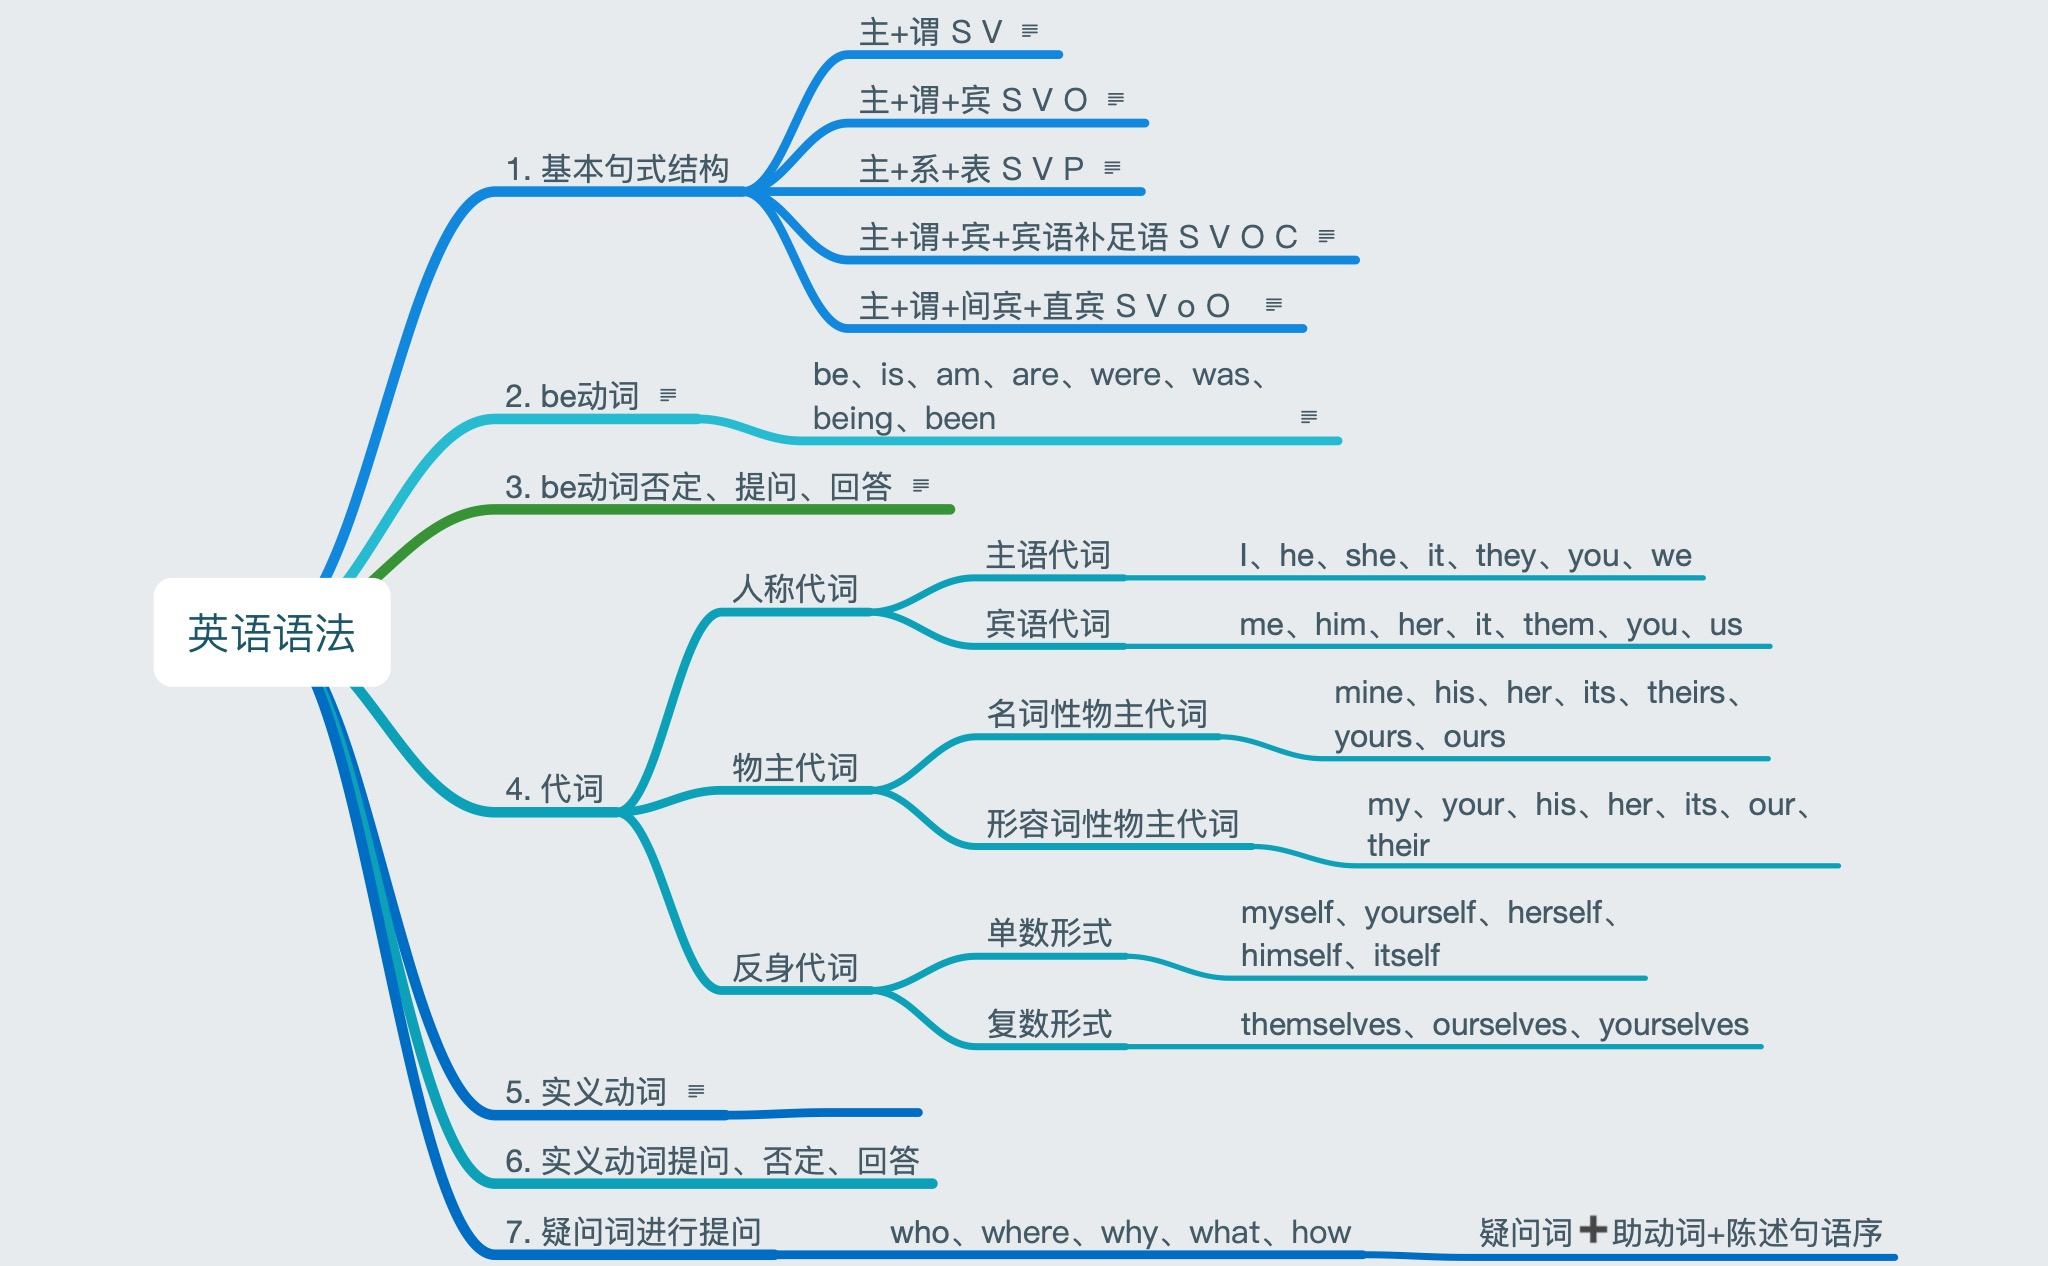
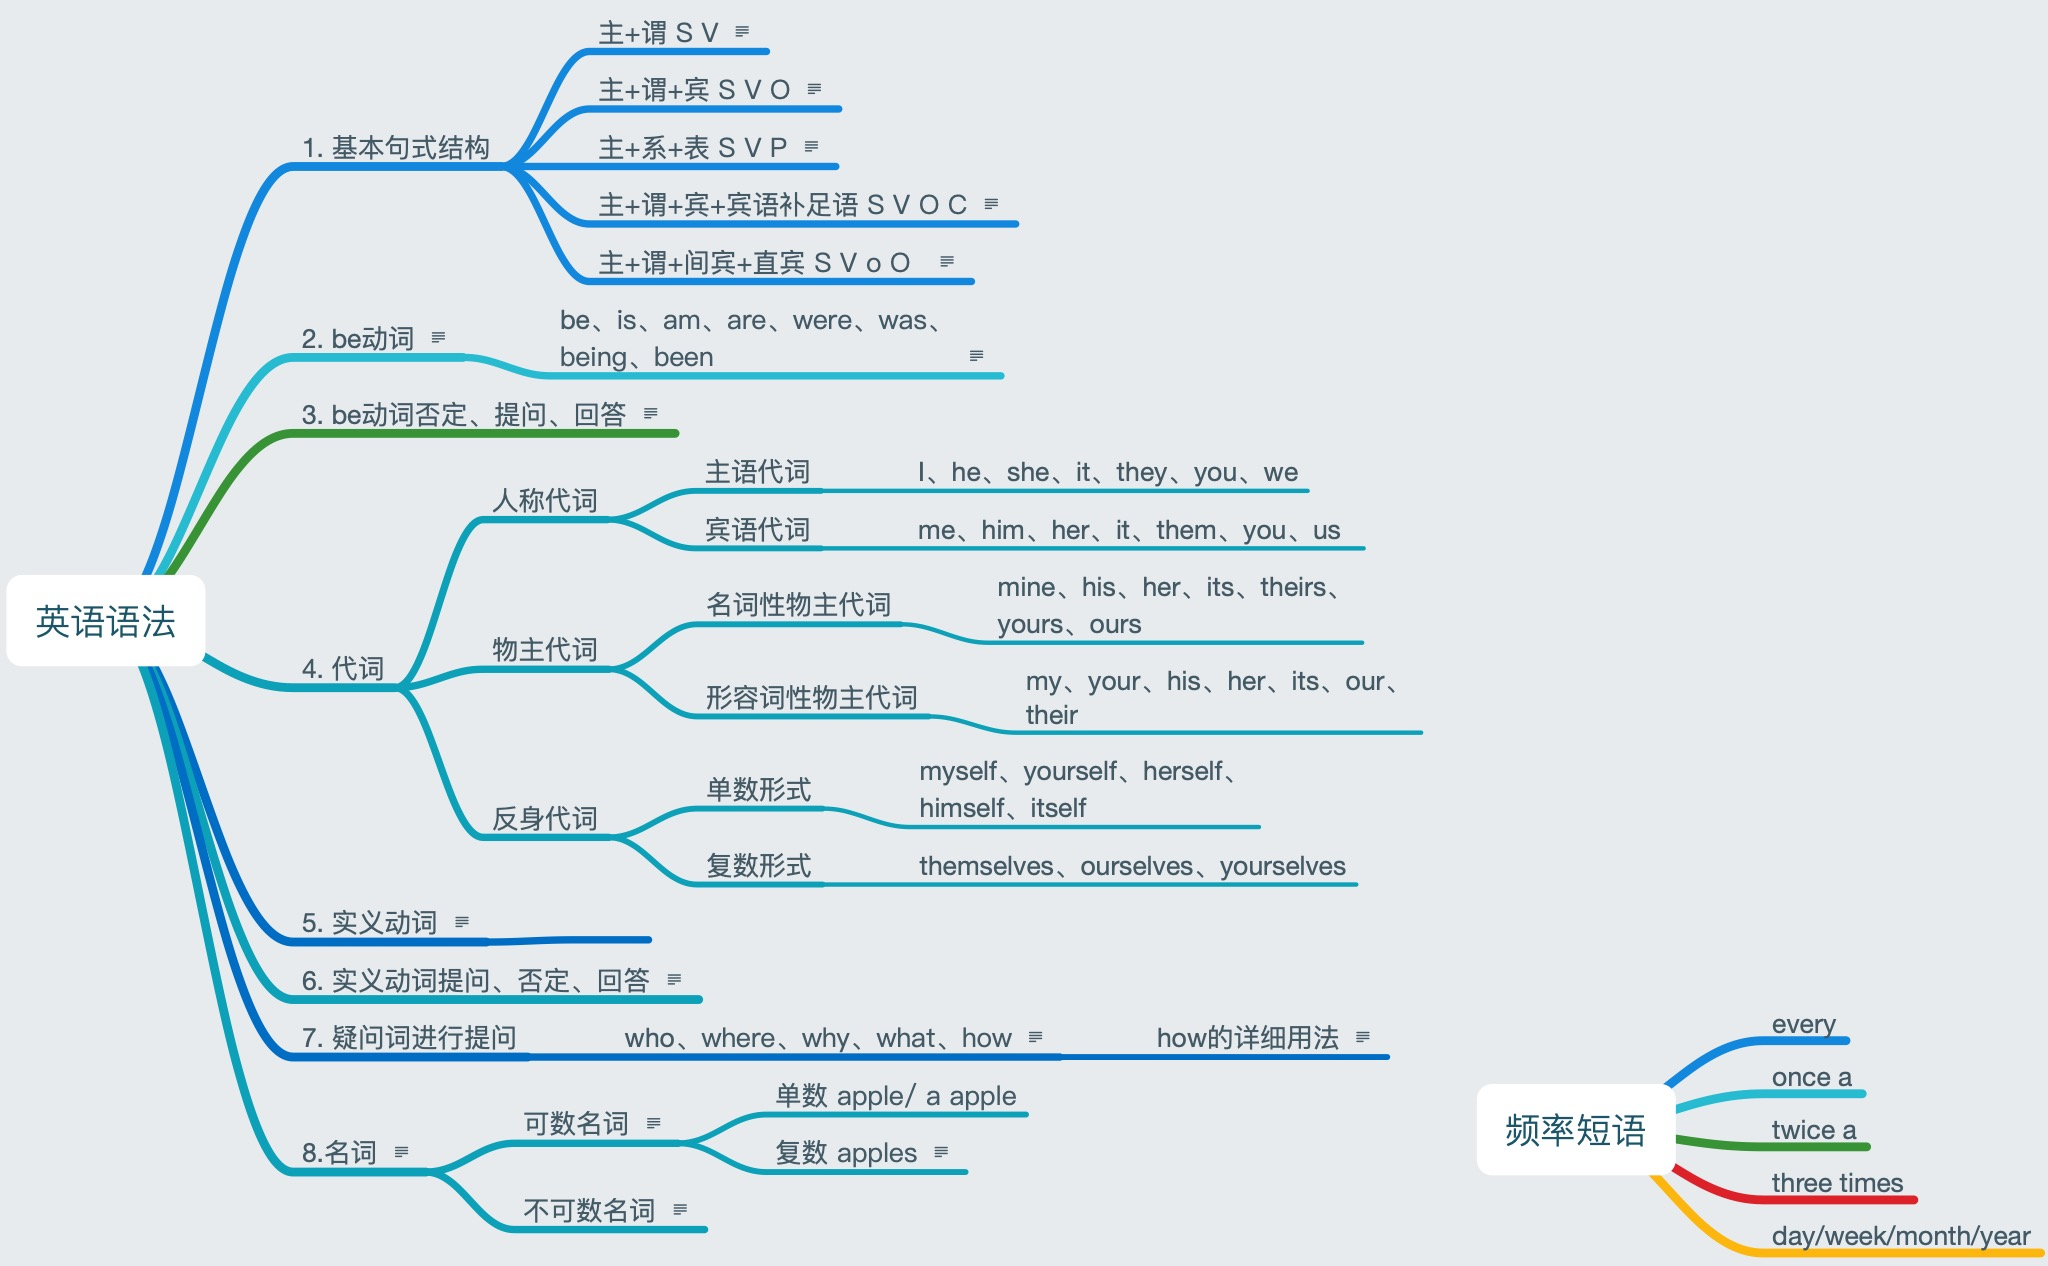
名词

Changed region(s): [[0.0312, 0.0, 1.0, 1.0]]

diff --git a/英语语法.md b/英语语法.md
@@ -1,0 +1,176 @@
+[TOC]
+
+# 英语语法
+
+
+## 1. 基本句式结构
+
+### 主+谓 S V
+
+主语+谓语  
+例句：  
+The universe remains.  
+宇宙依然存在。
+
+### 主+谓+宾 S V O
+
+主语+谓语+宾语  
+例：  
+He took his bag and left.  
+他拿着书包离开了。
+
+### 主+系+表 S V P
+
+主语+系动词+表语(主语补足语)  
+例：  
+The food is delicious.  
+食物很美味。
+
+### 主+谓+宾+宾语补足语 S V O C
+
+主语+谓语+宾语+宾语补足语  
+例：  
+Her father bought her a dictionary.  
+她父亲给她买了一本字典。
+
+### 主+谓+间宾+直宾 S V o O
+
+主语+谓语+间接宾语（人）+直接宾语（物）  
+例：  
+We make him our montior.  
+我们让他做我们的老板。
+
+## 2. be动词
+
+没有实际意义，用于连接
+
+### be、is、am、are、were、was、being、been
+
+be动词  
+——  
+am is are 进行时  
+was were 过去时  
+特点：  
+词义不完整，无法独立充当谓语，必须和实义动词连用，构成各种时态、语态、语气、否定、疑问  
+
+用法：  
+后接名词、形容词、地点副词或短语作补足语  
+
+例：  
+The man is back.  
+They are back.  
+He was back.（第三人称单数主语 过去时用was）  
+They were back. (复数主语 过去时用were)  
+They have been back. (过去分词been)
+
+## 3. be动词否定、提问、回答
+
+否定：be动词后接not  
+缩略形式：am not、isn’t、aren’t、wasn’t、weren’t  
+
+提问：be动词放在句首,其他语序不变  
+
+例：  
+He is a teacher.  
+Is he a teacher?    
+Yes, he is/No, he isn’t
+
+## 4. 代词
+
+### 人称代词
+
+- 主语代词
+
+	- I、he、she、it、they、you、we
+
+- 宾语代词
+
+	- me、him、her、it、them、you、us
+
+### 物主代词
+
+- 名词性物主代词
+
+	- mine、his、her、its、theirs、yours、ours
+
+- 形容词性物主代词
+
+	- my、your、his、her、its、our、their
+
+### 反身代词
+
+- 单数形式
+
+	- myself、yourself、herself、himself、itself
+
+- 复数形式
+
+	- themselves、ourselves、yourselves
+
+## 5. 实义动词
+
+有实际意义的动词  
+能独立充当谓语  
+有单三和时态的变化  
+分类：  
+助动词和情态动词以外的动词  
+例：  
+play、fly、jump
+
+### 
+
+## 6. 实义动词提问、否定、回答
+
+使用助动词进行否定， 在助动词do\does\did后面加not  
+使用助动词进行提问
+
+## 7. 疑问词进行提问
+
+### who、where、why、what、how
+
+对人提问： who  
+Who knows this problem  
+
+对事对物：what  
+What do you like?  
+
+对时间提问： when  
+When were you born?  
+
+对地点提问： where  
+Where does he live?  
+
+对方式提问： how  
+How does he go to school?  
+
+对原因提问： why  
+Why do you often study at the library?
+
+- how的详细用法
+  单独使用：对动作方式提问  
+  	how do you go to work?  
+  	how did he break his leg?  
+  	how fell off the ladder  
+  和形容词、副词连用  
+  	how old are you?  
+  	how tall is he?  
+  	how big is your new hourse?  
+  	how far is it from your home to school?  
+  对频率进行提问  
+  	how often/how many times?  
+  	how often do you go shopping?
+
+
+# 频率短语
+
+
+## every
+
+## once a
+
+## twice a
+
+## three times
+
+## day/week/month/year
+
